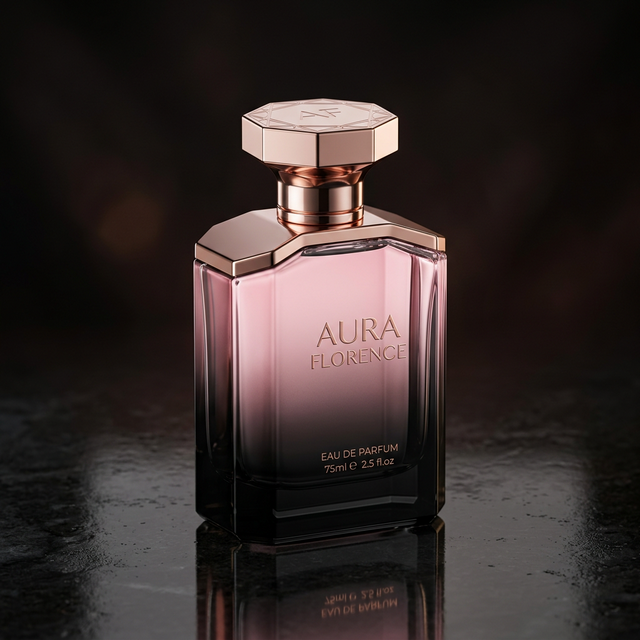
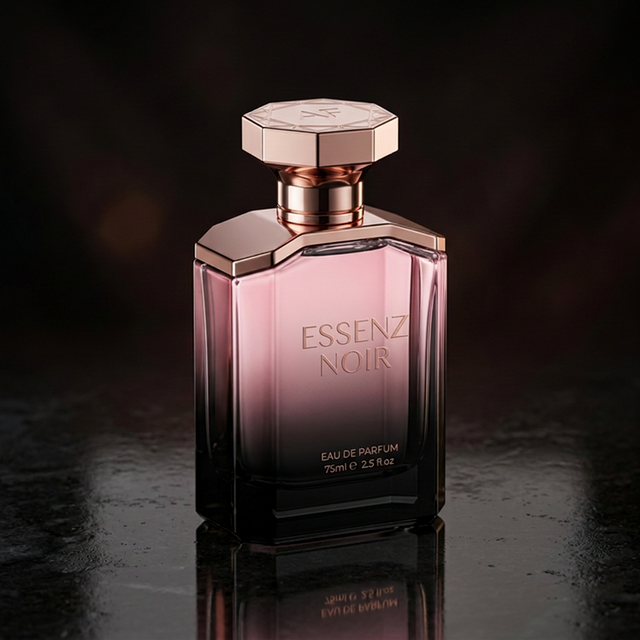
Fix syntax error blocking the loader & add new bottle images

Changed region(s): [[0.4688, 0.5, 0.625, 0.5938]]

diff --git a/essenz-perfumes.html b/essenz-perfumes.html
@@ -2396,8 +2396,8 @@
     // Initialize Supabase Client
     const supabaseUrl = window.ENV.SUPABASE_URL;
     const supabaseKey = window.ENV.SUPABASE_ANON_KEY;
-    const supabase = window.supabase.createClient(supabaseUrl, supabaseKey);
-    console.log("Supabase client initialized", supabase);
+    const supabaseClient = window.supabase.createClient(supabaseUrl, supabaseKey);
+    console.log("Supabase client initialized", supabaseClient);
 
   </script>
 </body>
